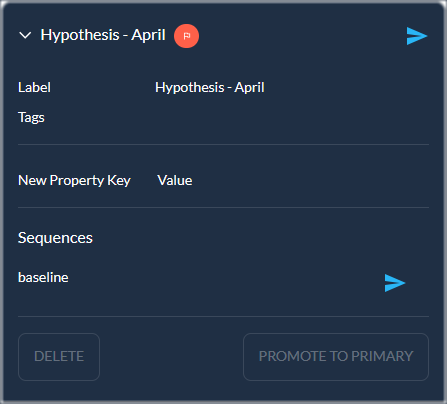
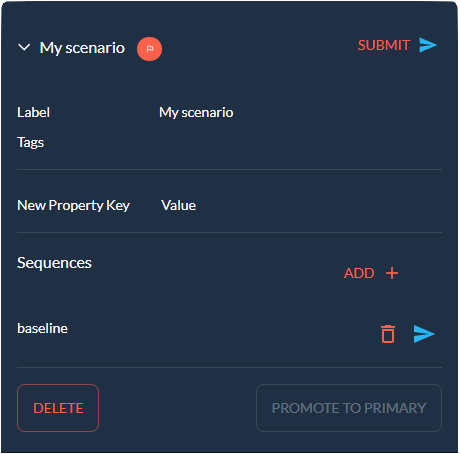
Added sequence edition section in scenario control.

diff --git a/tools/_setup_generation/step_refman.py b/tools/_setup_generation/step_refman.py
@@ -51,9 +51,9 @@ class RefManStep(SetupStep):
         # Clean REFERENCE_DIR_PATH directory
         for p in os.listdir(self.REFERENCE_DIR_PATH):
             fp = os.path.join(self.REFERENCE_DIR_PATH, p)
-            if re.match("^(pkg_)?taipy(\..*)?\.md$", p):
+            if re.match(r"^(pkg_)?taipy(\..*)?\.md$", p):
                 os.remove(fp)
-            elif os.path.isdir(fp) and re.match("^pkg_taipy(\..*)?$", p):
+            elif os.path.isdir(fp) and re.match(r"^pkg_taipy(\..*)?$", p):
                 shutil.rmtree(fp)
 
         saved_dir = os.getcwd()

diff --git a/docs/manuals/gui/viselements/index.md b/docs/manuals/gui/viselements/index.md
@@ -8,7 +8,7 @@ There are two types of *Visual Elements*:
      Beside the generic controls provided in Taipy GUI and listed in [this section](controls.md),
      the `taipy` package come with a dedicated set of Taipy GUI controls that let users display and
      interact with [Taipy Core entities](../../core/entities/index.md). These controls are listed
-     in the [Scenario Management controls](../controls.md#scenario-management-controls) section.
+     in the [Scenario Management controls](controls.md#scenario-management-controls) section.
 
    - *Blocks* let you organize controls (or blocks) in pages to provide the best
     possible user experience.

diff --git a/docs/relnotes.md b/docs/relnotes.md
@@ -82,6 +82,8 @@ This is the list of changes to Taipy releases as they were published.
 
 - The [`toggle`](manuals/gui/viselements/toggle.md) control appears as a switch button if its
   [*value*](manuals/gui/viselements/toggle.md/#p-value) property ... TODO
+- The [`scenario`](manuals/gui/corelements/scenario.md) control lets you add, modify and edit
+  sequences.
 
 <h4><strong><code>taipy-core</code></strong> 3.1.0 </h4>
 
